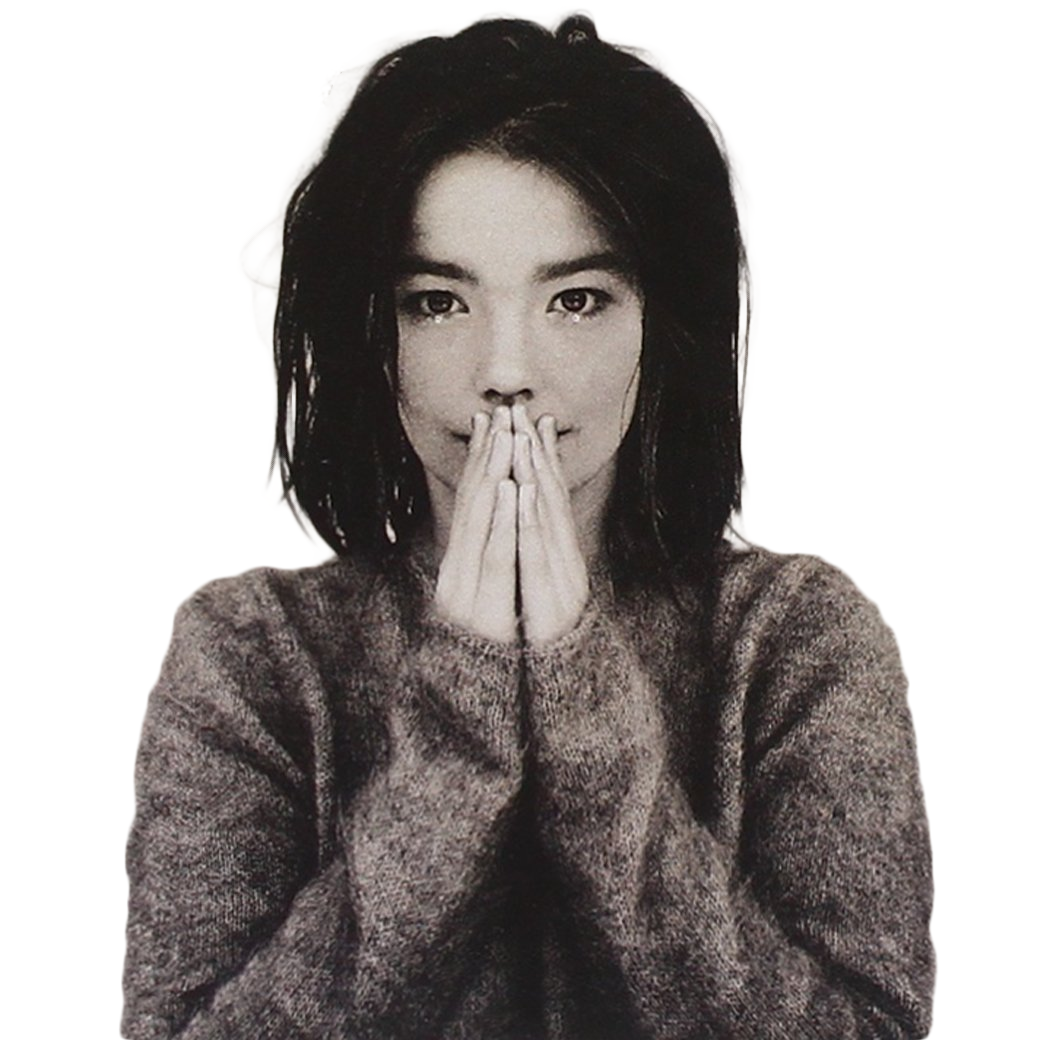
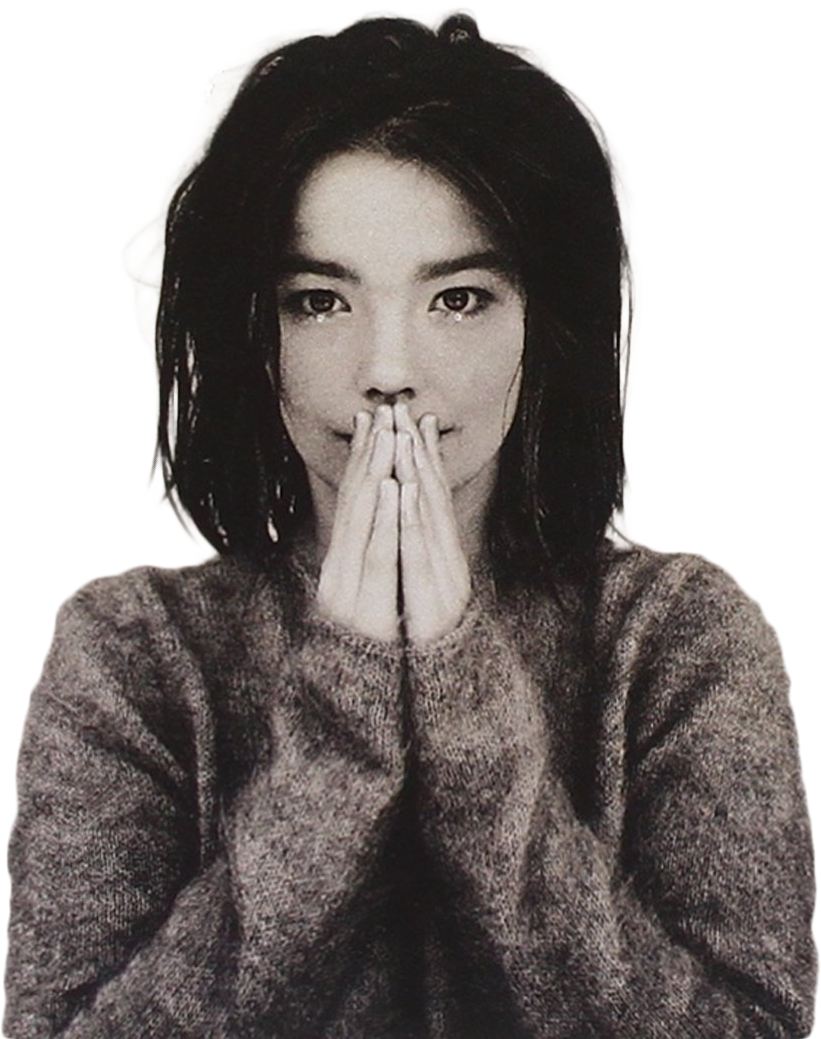
improved flex and scaling CSS

diff --git a/index.html b/index.html
@@ -22,9 +22,9 @@
   </header>
   <main>
     <div class="panel" id="overview">
-      <div class="panel-img">
-        <img src="img/portrait.png" id="portrait" alt="tentative headshot">
-      </div>
+      <div class="panel-margin"></div>
+      <img src="img/portrait.png" class="panel-img" alt="tentative headshot">
+      <div class="panel-margin"></div>
       <div class="panel-desc">
         <h1>Hi. I’m Zane. A Designer.</h1>
         <p>
@@ -34,7 +34,6 @@
       </div>
     </div>
     <div class="panel" id="daa">
-      <div class="panel-margin"></div>
       <div class="panel-desc">
         <h1>Design Against Anxiety</h1>
         <p>
@@ -42,14 +41,14 @@
           anxiety experienced by their users.
         </p>
       </div>
-      <div class="panel-img">
-        <img src="img/daa.png" alt="tentative headshot">
-      </div>
+      <div class="panel-margin"></div>
+      <img src="img/daa.png" class="panel-img" alt="tentative headshot">
+      <div class="panel-margin"></div>
     </div>
     <div class="panel" id="activity-manager">
-      <div class="panel-img">
-        <img src="img/daa.png" alt="tentative headshot">
-      </div>
+      <div class="panel-margin"></div>
+      <img src="img/daa.png" class="panel-img" alt="tentative headshot">
+      <div class="panel-margin"></div>
       <div class="panel-desc">
         <h1>Google Activity Manager</h1>
         <p>
@@ -57,7 +56,6 @@
           My Activity tool.
         </p>
       </div>
-      <div class="panel-margin"></div>
     </div>
   </main>
   <footer>

diff --git a/style.css b/style.css
@@ -61,39 +61,32 @@ main {
 .panel {
     display: flex;
     flex-direction: row;
+    justify-content: flex-start;
     width: 100%;
 }
 
 .panel-margin {
     width: 100%;
-    flex-basis: 20%;
+    flex-basis: 10%;
 }
 
 .panel-desc {
     display: flex;
     justify-content: center;
     flex-direction: column;
+    flex-basis: 40%;
 }
 
 .panel-img {
     display: flex;
     justify-content: center;
-}
-
-.panel-img img {
-    margin-top: 3em;
-}
-
-#overview .panel-img, #overview .panel-desc{
-    flex-basis: 40%;
-}
-
-#portrait {
-    width: 75%;
+    padding-top: 3em;
+    width: 100%;
 }
 
 #daa {
     background-color: #C7CCD1;
+    justify-content: flex-end;
 }
 
 #activity-manager {
@@ -104,8 +97,12 @@ main {
     padding-bottom: 2em;
 }
 
+#overview .panel-img {
+    max-width: 20%;
+}
+
 #daa img, #activity-manager img {
-    max-width: 70%;
+    max-width: 25%;
 }
 
 /* Footer */
